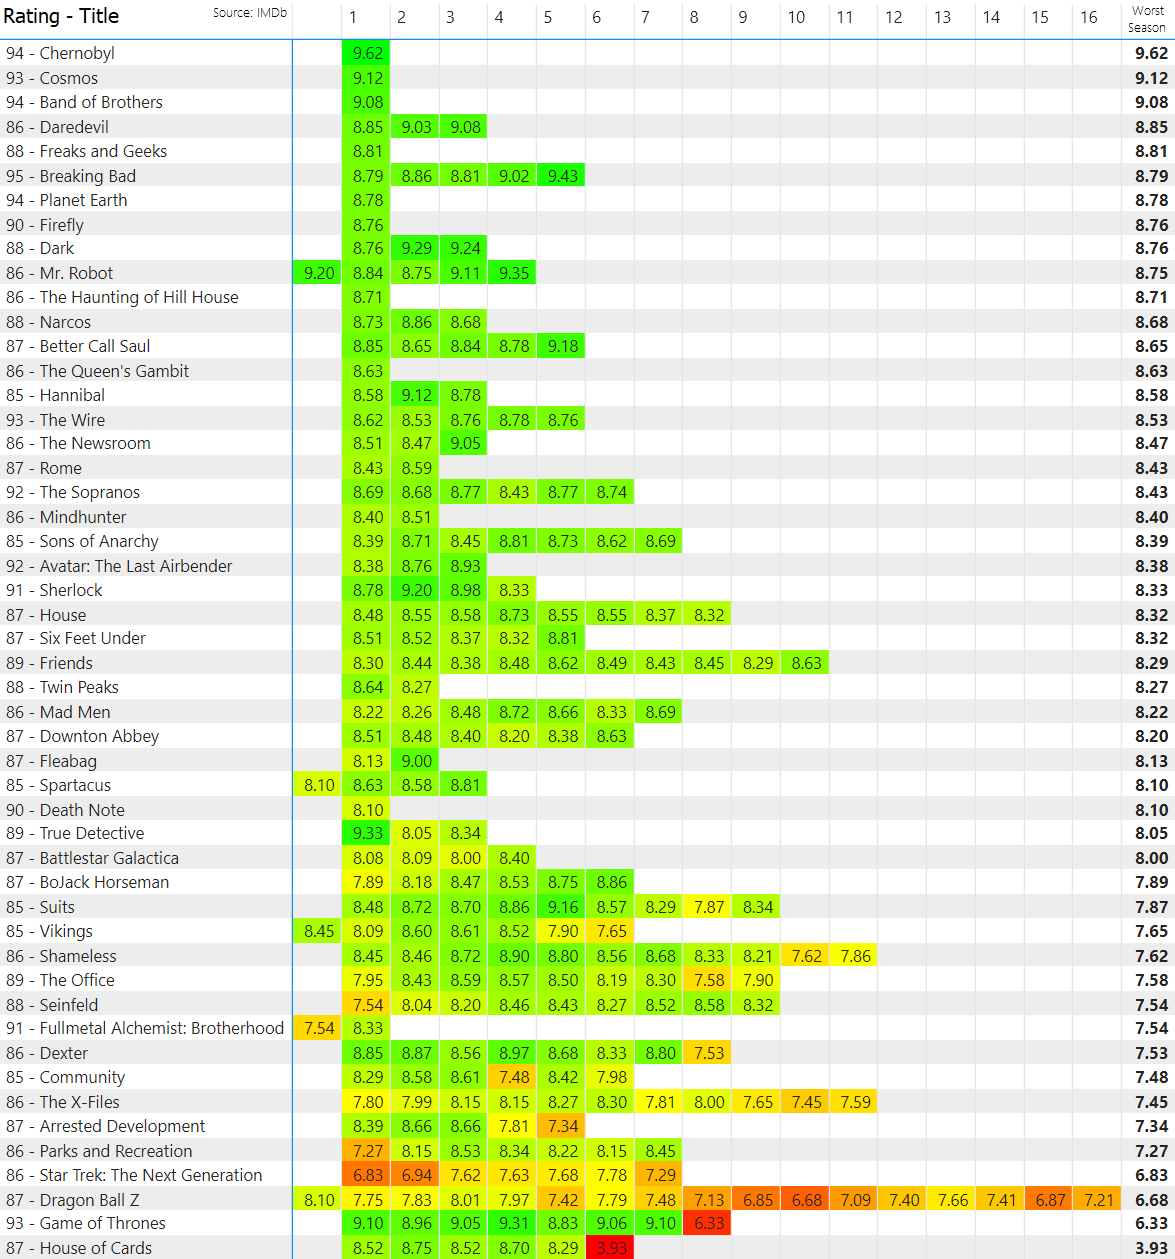
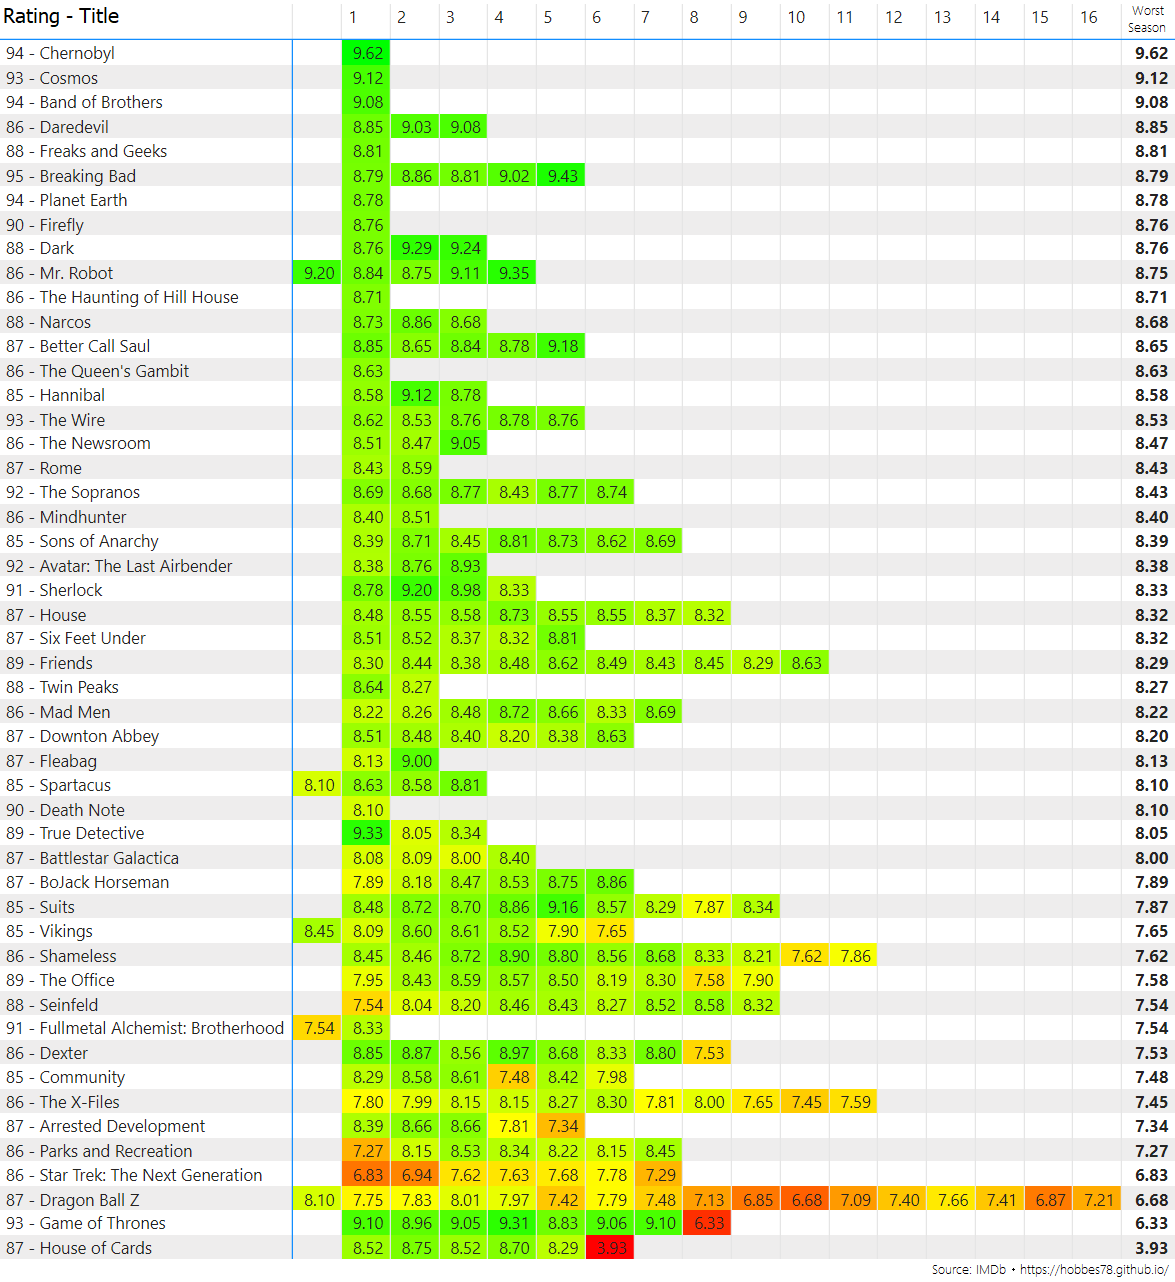
Add link to list of series

Changed region(s): [[0.0, 0.0, 1.0, 1.0], [0.1838, 0.0, 0.2451, 0.031]]

diff --git a/_posts/2021-03-30-series-age-well.md b/_posts/2021-03-30-series-age-well.md
@@ -14,4 +14,4 @@ But the gist here is that _a series is as good as its worst season_ so, whilst t
 
 ![Configuration of Power BI visualization](/assets/2021-03-30-series-age-well.png)
 
-A crescendo is noticeable in the number of seasons, as we got from the top to the bottom of the list, confirming that greed on milking the cow until it dries up really runs against artistic and literary creativity!
+A crescendo is noticeable in the number of seasons, as we go from the top to the bottom of the list, confirming that greed on milking the cow until it dries up really runs against artistic and literary creativity!
